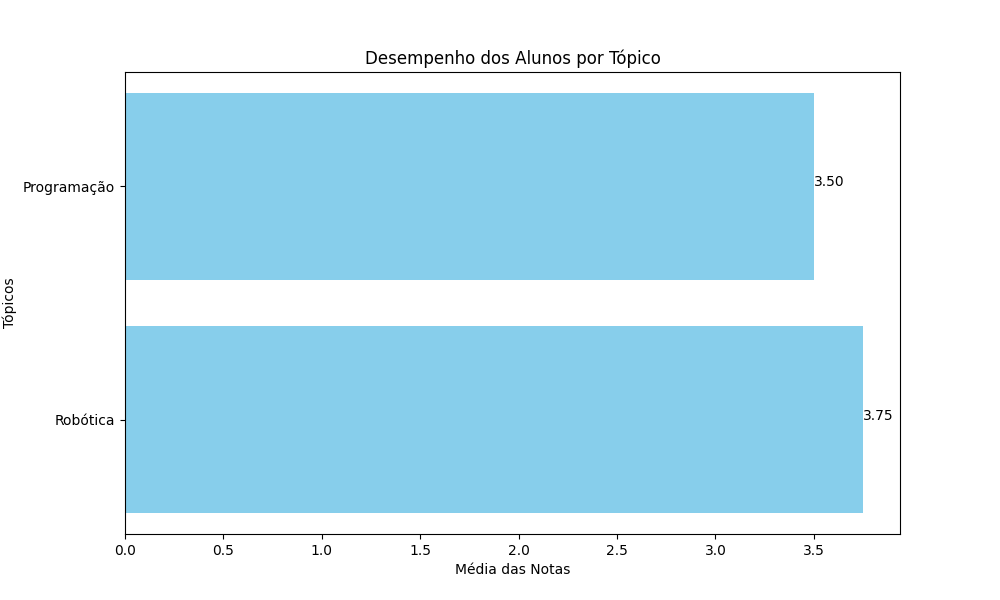
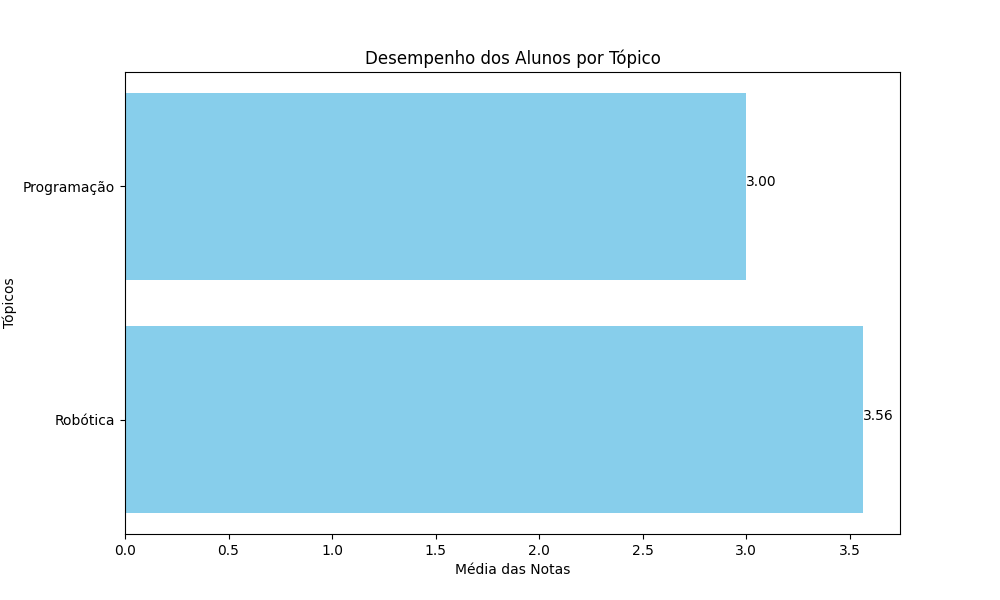
Stable_Version

diff --git a/templates/feedbacks_professor.html b/templates/feedbacks_professor.html
@@ -52,6 +52,7 @@
                 </div>
             </div>
         </section>
+    </main>
 
     <footer>
         <p>&copy; 2024 C2W. Todos os direitos reservados.</p>

diff --git a/routes/teacher_routes.py b/routes/teacher_routes.py
@@ -1,4 +1,4 @@
-from flask import Blueprint, render_template, session, redirect, url_for, request, flash, jsonify
+from flask import Blueprint, render_template, session, redirect, url_for, request, jsonify
 import os
 import numpy as np
 from werkzeug.utils import secure_filename
@@ -12,6 +12,8 @@ from utils import (
     generate_cluster_plot, generate_student_performance_plot,
     prever_notas,generate_performance_by_topic_plot
 )
+from sklearn.cluster import KMeans
+import numpy as np
 import sqlite3
 from collections import defaultdict
 
@@ -78,7 +80,7 @@ def criarAula():
         perguntas = request.form.getlist("perguntas[]")
 
         if not titulo or not descricao or not topico:
-            flash("Todos os campos são obrigatórios", "error")
+            print("Todos os campos são obrigatórios", "error")
             return redirect(url_for('teacher.criarAula'))
 
         conteudo_nome = None  
@@ -91,21 +93,21 @@ def criarAula():
                 conteudo_file.save(filepath)
                 conteudo_nome = filename
             except Exception as e:
-                flash('Erro ao salvar o arquivo: {}'.format(e), 'error')
+                print('Erro ao salvar o arquivo: {}'.format(e), 'error')
                 return redirect(url_for('teacher.criarAula'))
         
         if conteudo_nome is None and not request.form.get("conteudo"):
-            flash("Você deve enviar um arquivo ou fornecer o conteúdo da aula.", "error")
+            print("Você deve enviar um arquivo ou fornecer o conteúdo da aula.", "error")
             return redirect(url_for('teacher.criarAula'))
 
         conteudo = request.form.get("conteudo") if conteudo_nome is None else conteudo_nome
         
         try:
             criar_aula(user_id, titulo, descricao, conteudo, perguntas, topico, conteudo_nome)
-            flash("Aula criada com sucesso!", "success")
+            print("Aula criada com sucesso!", "success")
             return redirect(url_for('teacher.dashboard_professor'))
         except sqlite3.Error as e:
-            flash(f"Erro ao criar a aula: {e}", "error")
+            print(f"Erro ao criar a aula: {e}", "error")
             return redirect(url_for('teacher.criarAula'))
 
     return render_template("criarAula.html")
@@ -123,6 +125,7 @@ def ver_feedbacks():
         plot_url = None
         previsoes = {}
         print("Start processing feedbacks")
+        
         try:
             aulas = get_aulas_by_professor(user_id)
             print(f"Aulas encontradas: {aulas}")
@@ -134,14 +137,18 @@ def ver_feedbacks():
                 aula_id = aula[0]
                 titulo_aula = aula[2]
                 print(f"Processing aula_id: {aula_id}, titulo: {titulo_aula}")
+                
                 respostas = get_respostas_by_aula(aula_id)
                 print(f"Respostas para aula {aula_id} ({titulo_aula}): {respostas}")
+                
                 if respostas is None:
                     print(f"Erro ao buscar respostas para a aula {titulo_aula}.")
                     continue   
+                
                 feedbacks[titulo_aula] = respostas if respostas else []
                 progresso = get_progresso_by_aula(aula_id)
                 print(f"Progresso para aula {aula_id}: {progresso}")
+                
                 if progresso is None:
                     print(f"Erro ao buscar progresso para a aula {titulo_aula}.")
                     continue
@@ -150,17 +157,17 @@ def ver_feedbacks():
                     nome = aluno['nome']
                     total_alunos.add(nome)
                     progresso_por_aluno[nome] = aluno['concluida']
-
                 for resposta in respostas:
                     aluno_id = resposta['user_id']
-                    nota = resposta['nota'] if 'nota' in resposta.keys() else 0
-                    topico = resposta['topico'] if 'topico' in resposta.keys() else None
-                    notas_por_aula[aula_id].append(nota)
-                    if topico:
-                        notas_por_topico[topico].append(nota)
+                    nota = resposta['nota'] if 'nota' in resposta else 0 
+                    topico = resposta['topico'] if 'topico' in resposta else "Robótica"  
 
-            print("Notas por aula:", notas_por_aula)
-            print("Notas por tópico:", notas_por_topico)
+                    # Verifique se nota é numérica
+                    if isinstance(nota, (int, float)):
+                        notas_por_aula[aula_id].append(nota)
+                        if topico:
+                            notas_por_topico[topico].append(nota)
+
 
             medias_por_aula = {aula_id: (sum(notas) / len(notas)) if notas else 0
                                for aula_id, notas in notas_por_aula.items()}
@@ -170,18 +177,40 @@ def ver_feedbacks():
             alunos_data = {}
             for aluno_id, nome, nota, progresso, aula in alunos_scores:
                 if nome not in alunos_data:
-                    alunos_data[nome] = {'historico': []}
+                    alunos_data[nome] = {'historico': [], 'id': aluno_id}
                 alunos_data[nome]['historico'].append({
                     'nota': nota,
                     'progresso': progresso,
                     'aula': aula
                 })
 
-            previsoes = prever_notas(alunos_data)
-            print("Previsões:", previsoes)
-            if alunos_data:
-                plot_url = generate_performance_plot(alunos_data, previsoes)
-                print("URL do gráfico:", plot_url)
+            notas = np.array([entry['nota'] for aluno in alunos_data.values() for entry in aluno['historico']])
+            progresso = np.array([entry['progresso'] for aluno in alunos_data.values() for entry in aluno['historico']])
+
+            if len(notas) > 0:
+                kmeans = KMeans(n_clusters=3)  
+                X = np.column_stack((notas, progresso))
+                kmeans.fit(X)
+                labels = kmeans.labels_
+
+                grupos_alunos = {i: [] for i in range(3)} 
+
+                for i, aluno in enumerate(alunos_data.keys()):
+                    grupos_alunos[labels[i]].append(aluno)
+
+                print("Grupos de alunos:", grupos_alunos)
+
+                previsoes = prever_notas(alunos_data)
+                print("Previsões:", previsoes)
+
+                for nome, dados in previsoes.items():
+                    notas_historico = [entry['nota'] for entry in alunos_data[nome]['historico']]
+                    classificacao = classificar_aluno(notas_historico)
+                    previsoes[nome]['classificacao'] = classificacao
+
+                if alunos_data:
+                    plot_url = generate_performance_plot(alunos_data, previsoes)
+                    print("URL do gráfico:", plot_url)
 
             return render_template(
                 'feedbacks_professor.html',
@@ -191,7 +220,8 @@ def ver_feedbacks():
                 progresso=progresso_por_aluno,
                 medias_por_aula=medias_por_aula,
                 medias_por_topico=medias_por_topico,
-                total_alunos=len(total_alunos)
+                total_alunos=len(total_alunos),
+                grupos=grupos_alunos 
             )
         except Exception as e:
             print(f"Erro ao carregar feedbacks: {e}")
@@ -203,10 +233,19 @@ def ver_feedbacks():
                 progresso=progresso_por_aluno,
                 medias_por_aula={},
                 medias_por_topico={},
-                total_alunos=len(total_alunos)
+                total_alunos=len(total_alunos),
+                grupos={} 
             )
     return redirect(url_for('auth.login'))
 
+def classificar_aluno(notas):
+    media_nota = np.mean(notas) if notas else 0
+    if media_nota < 5:
+        return "Baixas Notas"
+    elif 5 <= media_nota < 7:
+        return "Notas Médias"
+    else:
+        return "Altas Notas"
 
 @teacher_bp.route('/dashboard_professor/avaliar_alunos', methods=["GET"])
 def avaliar_alunos():
@@ -217,7 +256,7 @@ def avaliar_alunos():
         alunos = get_alunos()
         return render_template('avaliar_alunos.html', alunos=alunos)
     except Exception as e:
-        flash(f"Erro ao obter alunos: {e}", "error")
+        print(f"Erro ao obter alunos: {e}", "error")
         return redirect(url_for('teacher.dashboard_professor'))
 
 
@@ -231,16 +270,16 @@ def analisar_aluno(aluno_id):
         if nota:
             try:
                 Adicionar_nota(1, aluno_id, nota)
-                flash("Nota adicionada com sucesso!", "success")
+                print("Nota adicionada com sucesso!", "success")
             except Exception as e:
-                flash(f"Erro ao adicionar nota: {e}", "error")
+                print(f"Erro ao adicionar nota: {e}", "error")
             return redirect(url_for('teacher.avaliar_alunos'))
 
     try:
         resposta = [resp for resp in resp_aluno(aluno_id) if resp["nota"] is None]
         return render_template('analisar_aluno.html', resposta=resposta, aluno_id=aluno_id)
     except Exception as e:
-        flash(f"Erro ao analisar aluno: {e}", "error")
+        print(f"Erro ao analisar aluno: {e}", "error")
         return redirect(url_for('teacher.avaliar_alunos'))
 
 

diff --git a/utils.py b/utils.py
@@ -7,15 +7,6 @@ import matplotlib
 matplotlib.use('Agg')
 from collections import defaultdict
 
-import matplotlib.pyplot as plt
-import os
-import numpy as np
-from sklearn.cluster import KMeans
-from sklearn.linear_model import LinearRegression
-import matplotlib
-matplotlib.use('Agg')
-from collections import defaultdict
-
 def kmeans_clustering(alunos_data):
     notas = np.array([nota for _, _, nota, _, _ in alunos_data if isinstance(nota, (int, float))]).reshape(-1, 1)
     
@@ -31,12 +22,10 @@ def kmeans_clustering(alunos_data):
     return notas, labels, centroids
 
 def generate_cluster_plot(X, labels, centroids, alunos_data):
-    print(alunos_data)
     plt.figure(figsize=(16, 12))
 
     topicos = sorted(set(aluno[4] for aluno in alunos_data if len(aluno) > 4))
     if not topicos:
-        print("Erro: Nenhum tópico encontrado em alunos_data.")
         return None
 
     topico_indices = {topico: i for i, topico in enumerate(topicos)}
@@ -128,24 +117,21 @@ def generate_student_performance_plot(alunos_data):
 
 def generate_performance_plot(alunos_data, previsoes):
     plt.figure(figsize=(10, 6))
-    
+
     cores = plt.cm.viridis(np.linspace(0, 1, len(alunos_data)))
 
     for i, (nome, dados) in enumerate(alunos_data.items()):
-        progresso = [entrada['progresso'] for entrada in dados['historico']]
-        notas = [entrada['nota'] for entrada in dados['historico']]
-        cor_aluno = cores[i]
-        
-        plt.plot(progresso, notas, color=cor_aluno, marker='o', label=f'{nome} (Real)', alpha=0.7)
+        notas = [entry['nota'] for entry in dados['historico']]
+        cor_aluno = cores[i]   
+        plt.plot(notas, color=cor_aluno, marker='o', label=f'{nome} (Real)', alpha=0.7)
 
-        # Previsão de próxima nota e progresso
         if nome in previsoes:
             previsao = previsoes[nome]
-            plt.scatter(previsao['proximo_progresso'], previsao['proxima_nota'], 
+            plt.scatter(len(notas), previsao['proxima_nota'], 
                         color=cor_aluno, marker='x', s=100, label=f'{nome} (Previsto)', alpha=1)
 
-    plt.title('Desempenho dos Alunos: Progresso vs Notas')
-    plt.xlabel('Progresso nas Aulas')
+    plt.title('Desempenho dos Alunos: Notas Históricas e Previstas')
+    plt.xlabel('Aulas')
     plt.ylabel('Notas')
     plt.legend()
     plt.grid()
@@ -161,48 +147,47 @@ def generate_performance_plot(alunos_data, previsoes):
 
 def prever_notas(alunos_data):
     previsoes = {}
-
+    
     for nome, dados in alunos_data.items():
-        progresso = []
-        notas = []
-        aulas = []
-        historico = dados.get('historico', [])
-        
-        for entrada in historico:
-            if 'progresso' in entrada and 'nota' in entrada and 'aula' in entrada:
-                progresso.append(entrada['progresso'])
-                notas.append(entrada['nota'])
-                aulas.append(entrada['aula'])
-        if len(progresso) >= 2 and len(set(progresso)) > 1:
-            # Predição da nota
-            X_nota = np.array(progresso).reshape(-1, 1)
-            y_nota = np.array(notas)
-            modelo_nota = LinearRegression()
-            modelo_nota.fit(X_nota, y_nota)
+        historico_progresso = [entry['progresso'] for entry in dados['historico']]
+        historico_notas = [entry['nota'] for entry in dados['historico']]
 
-            progresso_atual = dados.get('progresso', progresso[-1])
-            proxima_nota = modelo_nota.predict(np.array([[progresso_atual]]))[0]
+        if len(historico_progresso) >= 3:
+            X_hist = np.array(historico_progresso).reshape(-1, 1)
+            y_notas = np.array(historico_notas)
+            
+            modelo_notas = LinearRegression()
+            modelo_notas.fit(X_hist, y_notas)
 
-            # Predição da aula usando o progresso como referência
-            X_aula = np.array(progresso).reshape(-1, 1)
-            y_aula = np.array(aulas)
-            modelo_aula = LinearRegression()
-            modelo_aula.fit(X_aula, y_aula)
+            tendencia_nota = modelo_notas.coef_[0]
 
-            proxima_aula = round(modelo_aula.predict(np.array([[progresso_atual]]))[0])
+            modelo_progresso = LinearRegression()
+            modelo_progresso.fit(X_hist, np.array(historico_progresso))
+
+            tendencia_progresso = modelo_progresso.coef_[0]
+
+            decaimento_nota = tendencia_nota < 0
+            decaimento_progresso = tendencia_progresso < 0
+
+            proximo_progresso = historico_progresso[-1] + 1
+            proxima_nota = modelo_notas.predict(np.array([[proximo_progresso]]))[0]
 
             previsoes[nome] = {
                 'proxima_nota': proxima_nota,
-                'proxima_aula': proxima_aula
+                'proximo_progresso': proximo_progresso,
+                'decaimento_nota': decaimento_nota,
+                'decaimento_progresso': decaimento_progresso
             }
         else:
-            # Usa a média se não houver dados suficientes
             previsoes[nome] = {
-                'proxima_nota': np.mean(notas) if notas else dados.get('nota', None),
-                'proxima_aula': max(aulas) + 1 if aulas else None
+                'proxima_nota': np.mean(historico_notas) if historico_notas else 0,
+                'proximo_progresso': (historico_progresso[-1] + 1) if historico_progresso else 1,
+                'decaimento_nota': False,
+                'decaimento_progresso': False
             }
 
     return previsoes
+
 def generate_performance_by_topic_plot(alunos_data):
     if not alunos_data or not isinstance(alunos_data, list):
         raise ValueError("alunos_data deve ser uma lista.")
@@ -239,3 +224,12 @@ def generate_performance_by_topic_plot(alunos_data):
     plt.close()
 
     return 'performance_by_topic_plot.png'
+
+def classificar_alunos_por_grupos(notas):
+    media_nota = np.mean(notas) if notas else 0
+    if media_nota < 5:
+        return "Baixas Notas"
+    elif 5 <= media_nota < 7:
+        return "Notas Médias"
+    else:
+        return "Altas Notas"

diff --git a/models.py b/models.py
@@ -152,7 +152,7 @@ def get_aulas_by_professor(user_id, topico=None):
 def get_respostas_by_aula(aula_id):
     db = get_db()
     return db.execute('''
-        SELECT r.user_id, u.nome, r.resposta
+        SELECT r.user_id, u.nome, r.resposta,r.nota
         FROM respostas r
         JOIN usuarios u ON r.user_id = u.id
         WHERE r.aula_id = ?
@@ -215,7 +215,7 @@ def get_student_scores():
     db = get_db() 
     if db is None:
         return []
-    
+     
     cursor = db.cursor()
     query = """
     SELECT 
